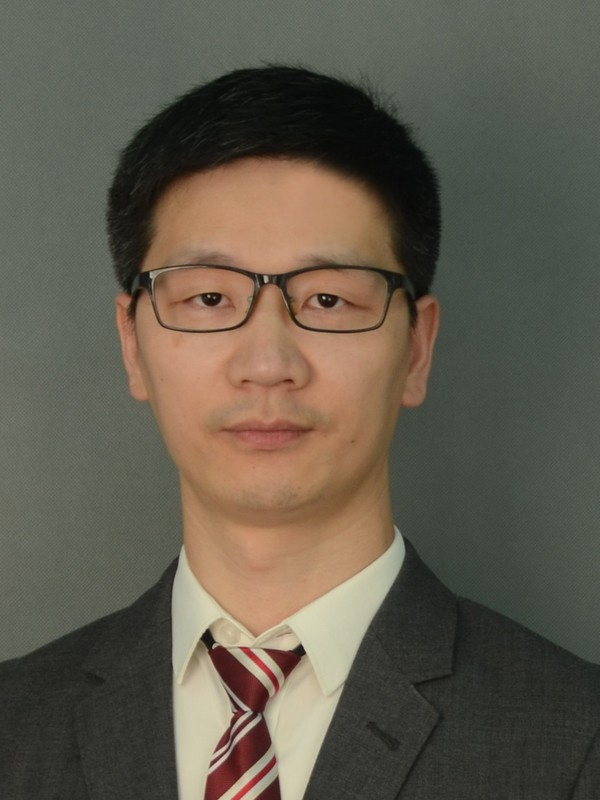
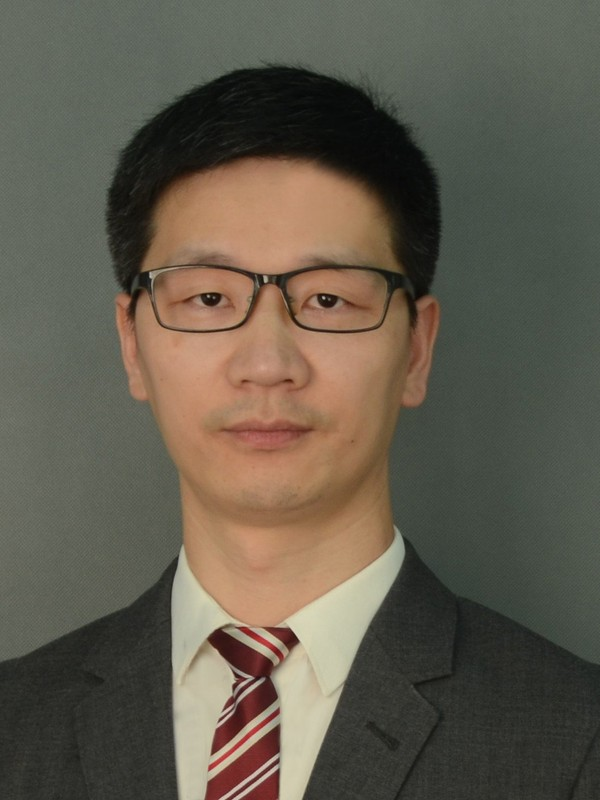
News: EDL cover feature with editor's pick blurb

Changed region(s): [[0.3, 0.75, 0.51, 1.0]]

diff --git a/news.html b/news.html
@@ -93,7 +93,20 @@
       </div>
     </article>
 
-    <article class="entry">
+        <article class="entry">
+      <div class="entry-date"><span class="m">Jul</span><span class="y">2026</span></div>
+      <div class="entry-body">
+        <h2>InGaO high-voltage TFT selected as an EDL Editor&rsquo;s Pick</h2>
+        <figure>
+          <img class="zoom" src="assets/news/2026-ingao-gfp-cover.jpg" alt="Gate-field-plated InGaO transistor: cross-section with field plate, transfer curves with and without GFP, and a BEOL wafer" width="1200" height="640" loading="lazy" decoding="async">
+          <figcaption>Gate-field-plated InGaO TFT reaching a breakdown voltage of 1348 V &mdash; featured as the IEEE Electron Device Letters Editor&rsquo;s Pick for July 2026 (47(6), 1129&ndash;1132).</figcaption>
+        </figure>
+        <p>This paper was featured as the IEEE Electron Device Letters Editor&rsquo;s Pick for July. This InGaO TFT achieves an ultra-high breakdown voltage of 1348 V via a gate field plate at low BEOL temperature, outperforming reference devices. It enables monolithic 3D integrated high-voltage interfaces for on-chip power management.</p>
+        <div class="tags"><span>Publication</span><span>Cover story</span></div>
+      </div>
+    </article>
+
+<article class="entry">
       <div class="entry-date"><span class="m">May</span><span class="y">2026</span></div>
       <div class="entry-body">
         <h2>P-type monolayer WSe<sub>2</sub> transistors in Nature Electronics</h2>
